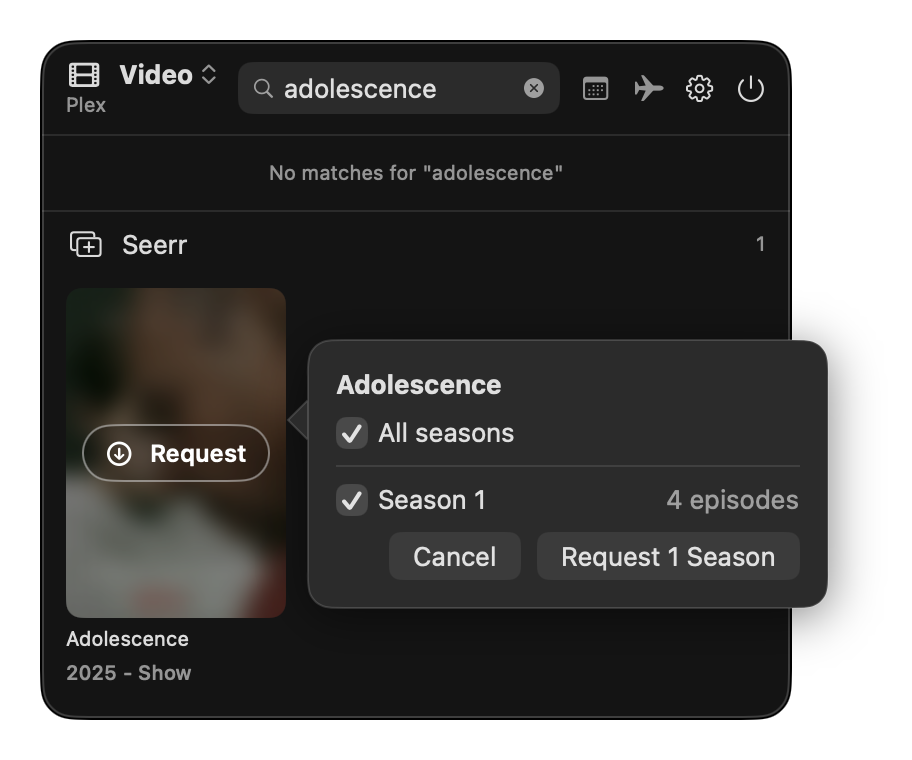
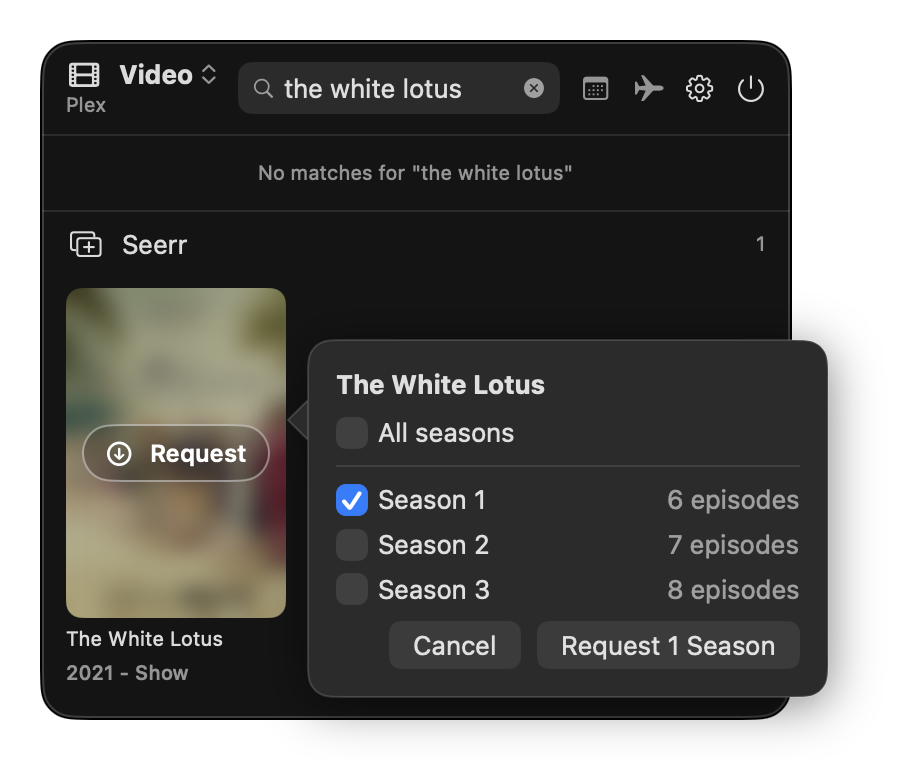
Show The White Lotus in the season picker screenshot

diff --git a/README.md b/README.md
@@ -118,6 +118,6 @@ Optional. Each service needs a free account of your own. The keys go in Settings
   <tr>
     <td align="center"><img src="Screenshots/Release-Calendar.png" width="205" alt="The release calendar: a month view with dots on days with releases, and the week's movies and episodes from Radarr and Sonarr"><br><sub>Release calendar from Radarr and Sonarr</sub></td>
     <td align="center"><img src="Screenshots/Seerr-Requests.png" width="208" alt="Searching for Kung Fu Panda: the Seerr row lists the movies not in the library, with Request on the first poster"><br><sub>Requests with Seerr</sub></td>
-    <td align="center"><img src="Screenshots/Seerr-Seasons.png" width="228" alt="Requesting Adolescence: a popover next to the poster lists its seasons with checkboxes, and Request 1 Season"><br><sub>Pick the seasons to request</sub></td>
+    <td align="center"><img src="Screenshots/Seerr-Seasons.png" width="228" alt="Requesting The White Lotus: a popover next to the poster lists seasons 1 to 3 with checkboxes, Season 1 checked, and Request 1 Season"><br><sub>Pick the seasons to request</sub></td>
   </tr>
 </table>
